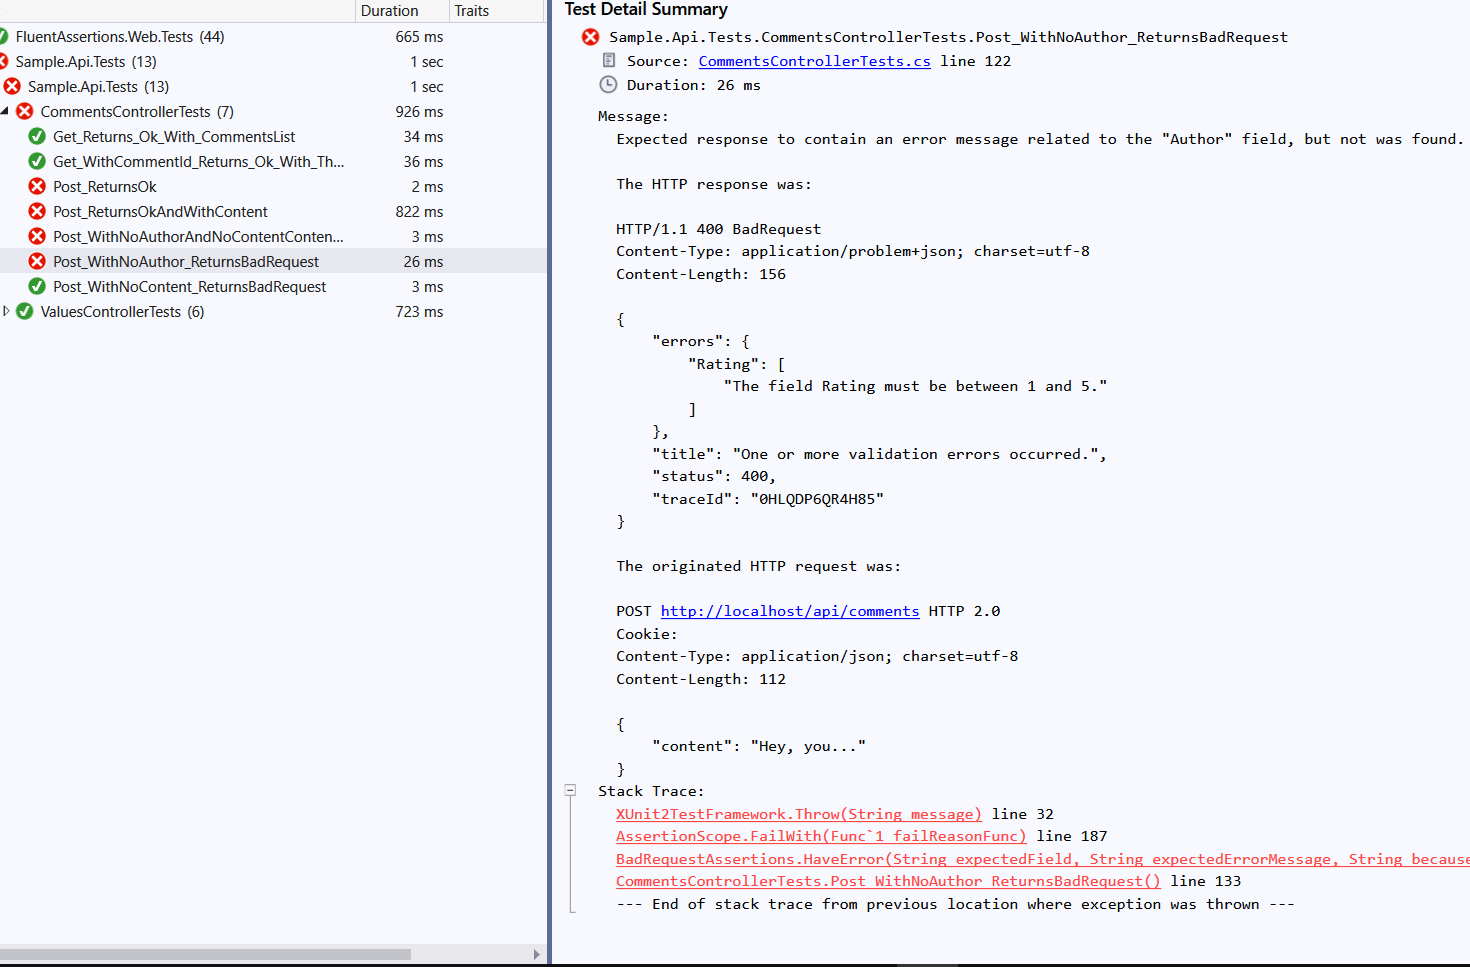
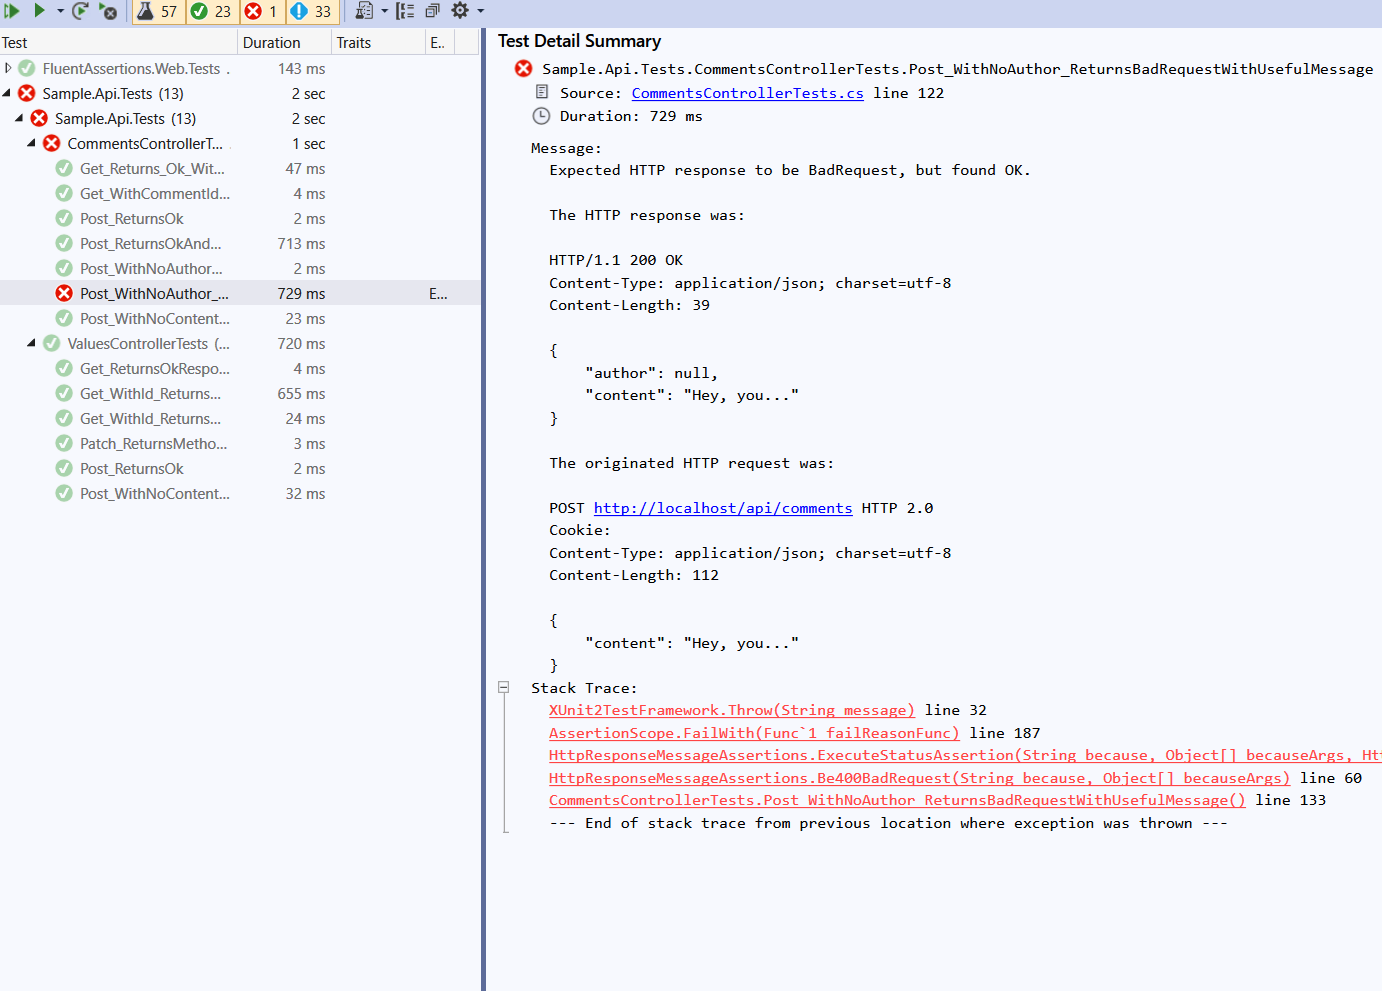
Fix readme contents

diff --git a/src/FluentAssertions.Web/BadRequestAssertions.cs b/src/FluentAssertions.Web/BadRequestAssertions.cs
@@ -34,7 +34,7 @@ namespace FluentAssertions.Web
                 .BecauseOf(because, becauseArgs)
                 .ForCondition(json.HasKey(expectedField))
                 .FailWith("Expected {context:response} " +
-                          "to contain an error message related to the {0} field, but not was found." +
+                          "to contain an error message related to the {0} field, but was not found." +
                           "{1}",
                     expectedField, Subject)
 

diff --git a/samples/Sample.Api.Tests/CommentsControllerTests.cs b/samples/Sample.Api.Tests/CommentsControllerTests.cs
@@ -119,7 +119,7 @@ namespace Sample.Api.Tests
         }
 
         [Fact]
-        public async Task Post_WithNoAuthor_ReturnsBadRequest()
+        public async Task Post_WithNoAuthor_ReturnsBadRequestWithUsefulMessage()
         {
             // Arrange
             var client = _factory.CreateClient();

diff --git a/readme.md b/readme.md
@@ -1,4 +1,4 @@
-
+## Examples
 ```csharp
 [Fact]
 public async Task Post_ReturnsOk()
@@ -18,4 +18,23 @@ public async Task Post_ReturnsOk()
 ```
 
 ![FailedTest1](https://github.com/adrianiftode/FluentAssertions.Web/blob/master/docs/images/FailedTest1.png?raw=true)
+
+```csharp
+[Fact]
+public async Task Post_WithNoAuthor_ReturnsBadRequest()
+{
+	// Arrange
+	var client = _factory.CreateClient();
+
+	// Act
+	var response = await client.PostAsync("/api/comments", new StringContent(@"{
+								  ""content"": ""Hey, you...""
+								}", Encoding.UTF8, "application/json"));
+
+	// Assert
+	response.Should().Be400BadRequest()
+		.And.HaveError("Author", "The Author field is required.");
+}
+```
+	
 ![FailedTest2](https://github.com/adrianiftode/FluentAssertions.Web/blob/master/docs/images/FailedTest2.png?raw=true)
